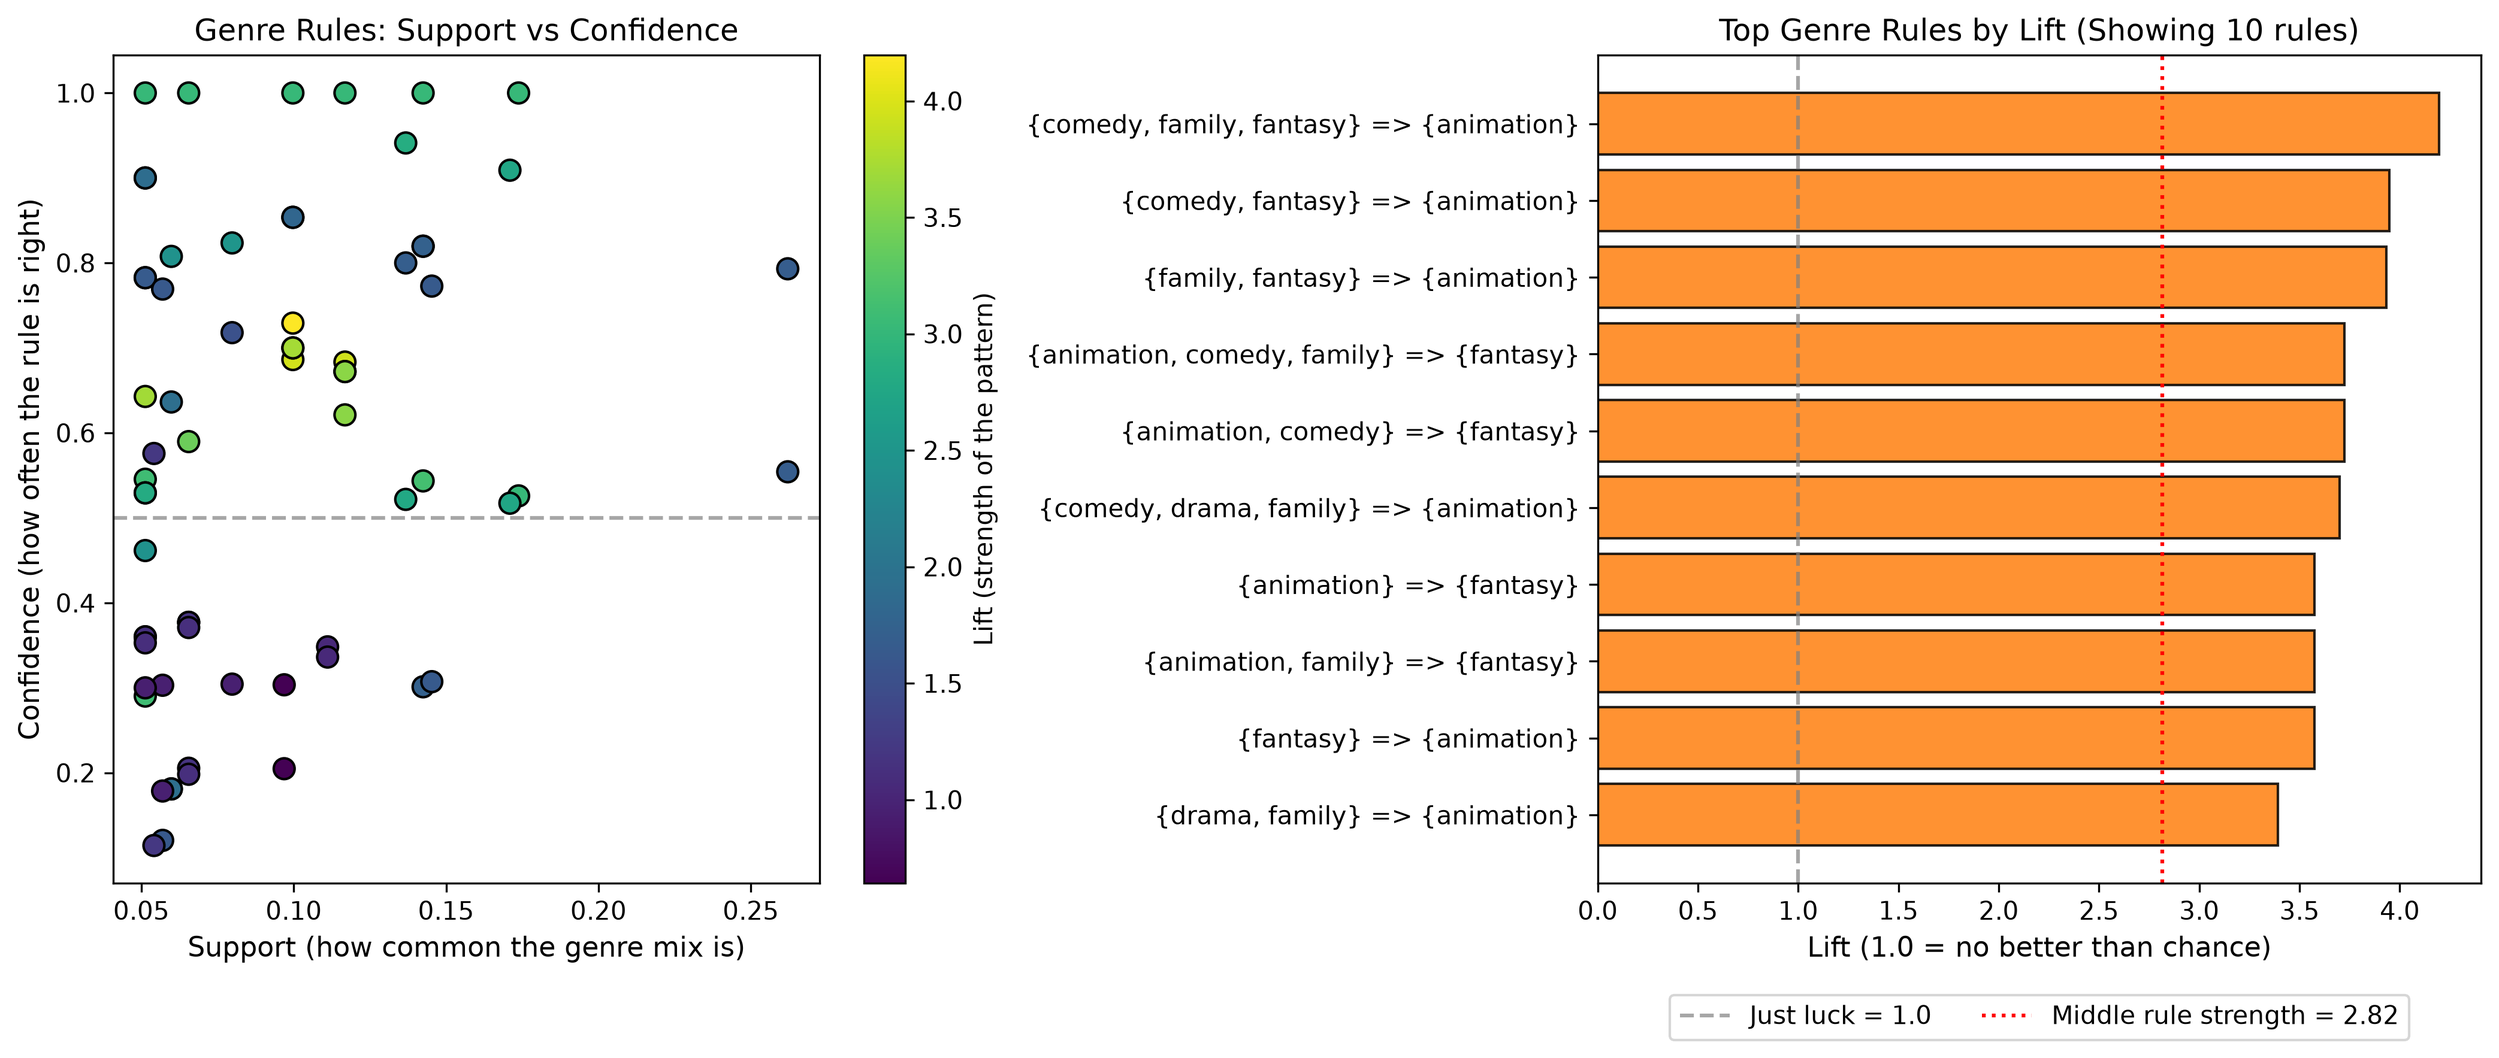
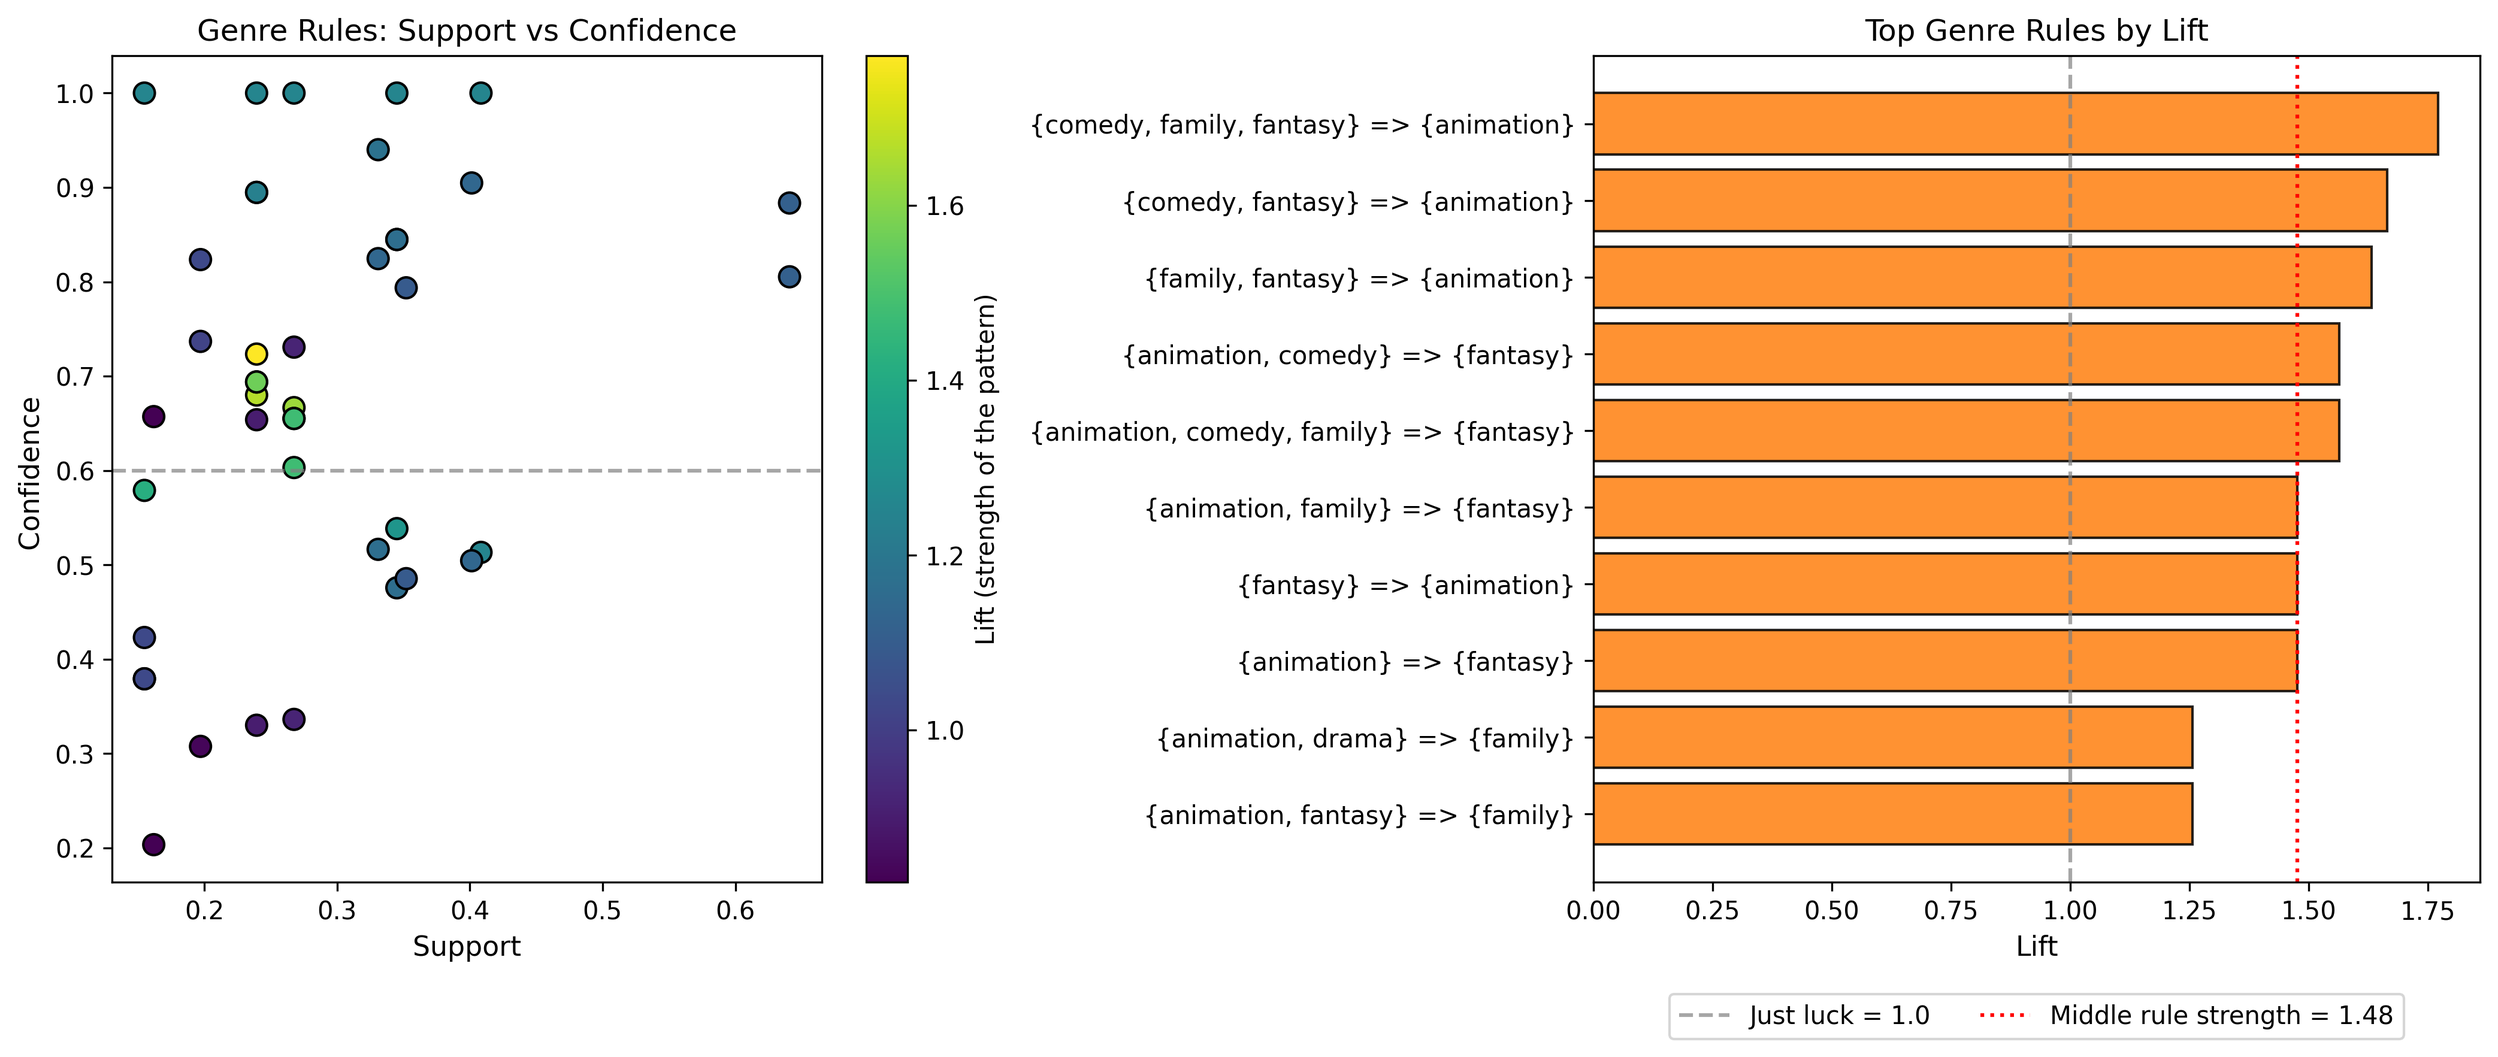
chore : cleaning the file and fixing the better threshold and confidence

diff --git a/Appriori_Analysis_final.py b/Appriori_Analysis_final.py
@@ -1,9 +1,47 @@
+"""
+Apriori analysis of Disney genres (revised after the dataset review).
+
+Comment tags used below:
+  [KEPT]    same logic as your previous version
+  [CHANGED] same place, different behaviour (reason given)
+  [ADDED]   new in this version (reason given)
+  [REMOVED] taken out (reason given)
+  [MOVED]   same code, new position in the file
+
+Summary of the changes:
+  1. [ADDED]   One settings block: minsupp 0.15, confidence 0.6, lift 1.2.
+  2. [ADDED]   Apriori now mines only films with 2+ genres (one-genre films
+               cannot form a rule and inflate lift), minus the 3 films whose
+               genres belong to another version of the film.
+  3. [CHANGED] Validation and cross-feature sections use that same film set.
+  4. [CHANGED] minsupp sensitivity table now shows films needed and rule counts.
+  5. [CHANGED] Fragile code fixed: bare except, try/except that never fired,
+               max() on an empty set, division by zero on empty test set.
+"""
+
 import ast
+import math
 from itertools import combinations
 import pandas as pd
 import matplotlib.pyplot as plt
 
 pd.set_option("display.width", 200)
+
+# =====================  SETTINGS  =====================
+# [ADDED] All thresholds live here so slides and code always agree.
+minsupp = 0.15          # [CHANGED] kept at 0.15 = ~22 films on the 2+ genre set
+minsupp_x = 0.10        # [KEPT] cross-feature baskets have rarer items
+MIN_CONF = 0.6          # [CHANGED] was 0.5 -> the old filter removed very little
+MIN_LIFT = 1.2          # [CHANGED] was 1.0 -> lift 1.0 means "no pattern"
+MIN_GENRES = 2          # [ADDED] a film needs 2+ genres to be able to form a rule
+
+# [ADDED] Films whose genre list belongs to a different version of the film.
+# Matched on (lowercase title, release year). Edit this list if you find more.
+WRONG_VERSIONS = {
+    ("beauty and the beast", 1991),
+    ("the jungle book", 1994),
+    ("cinderella", 2015),
+}
 
 # Load the dedicated Apriori files so your other test files remain untouched
 train_raw = pd.read_csv("Datasets/disney_train_clean.csv")
@@ -16,8 +54,12 @@ test_raw["split"] = "test"
 merged = pd.concat([train_raw, test_raw], ignore_index=True)
 merged.to_csv("disney_merged.csv", index=False)
 
-# =====================  APRIORI FUNCTIONS  =====================
+
+# =====================  FUNCTIONS  =====================
 def support(itemset, tx):
+    # [CHANGED] guard against an empty transaction list (division by zero)
+    if not tx:
+        return 0.0
     s = set(itemset)
     return sum(1 for t in tx if s.issubset(t)) / len(tx)
 
@@ -73,7 +115,7 @@ def parse_basket(v):
     if v.startswith("["):
         try:
             return {g.lower().strip() for g in ast.literal_eval(v)}
-        except:
+        except (ValueError, SyntaxError):   # [CHANGED] was a bare "except:"
             return set()
     # If it's a plain comma-separated string (e.g., "Animation, Comedy")
     elif "," in v:
@@ -81,61 +123,8 @@ def parse_basket(v):
     # If it's just a single genre string (e.g., "Animation")
     return {v.lower().strip()}
 
-# Find the correct genre column dynamically
-genre_col = "genre" if "genre" in merged.columns else ("genres" if "genres" in merged.columns else None)
-
-if genre_col:
-    merged["genre_basket"] = merged[genre_col].map(parse_basket)
-else:
-    raise KeyError("Could not find a 'genre' or 'genres' column in your dataset!")
-
-transactions = [b for b in merged["genre_basket"] if len(b) > 0]
-items = sorted({i for t in transactions for i in t})
-N = len(transactions)
-minsupp = 0.05
-
-print(f"|T| = {N} transactions, |I| = {len(items)} items")
-for t in transactions[:5]:
-    print(sorted(t))
-
-print("Number of transactions (films):", N)
-print("Average genres per film       :", round(sum(len(t) for t in transactions) / N, 2))
-
-# =====================  RUN APRIORI ON GENRES  =====================
-for ms in [0.05, 0.10, 0.15, 0.20, 0.30]:
-    f = apriori_manual(transactions, ms, verbose=False)
-    print(f"minsupp={ms:.2f} -> {len(f):3d} frequent itemsets, largest size k={max(len(s) for s in f)}")
-    
-frequent = apriori_manual(transactions, minsupp)
-
-multi = sorted((s for s in frequent if len(s) >= 2), key=lambda s: (len(s), sorted(s)))
-for s in multi:
-    print(sorted(s), round(frequent[s], 3))
-
-# =====================  STEP 4: CANDIDATES FOR RULES  =====================
-def rule_candidates(target, tx):
-    items = sorted(target)
-    s_xy = support(items, tx)
-    rows = []
-    for r in range(0, len(items) + 1):
-        for ante in combinations(items, r):
-            ante = set(ante); cons = set(items) - ante
-            s_x, s_y = support(ante, tx), support(cons, tx)
-            rows.append({
-                "Rule": ("{" + ", ".join(sorted(ante)) + "}" if ante else "Ø") + " => " +
-                        ("{" + ", ".join(sorted(cons)) + "}" if cons else "Ø"),
-                "Confidence": round(s_xy / s_x, 2) if s_x > 0 else 0.0,
-                "Lift": round(s_xy / (s_x * s_y), 2) if (s_x * s_y) > 0 else 0.0,
-                "Leverage": round(s_xy - s_x * s_y, 2),
-                "Kept?": "Yes" if ante and len(cons) == 1 else "No"})
-    return pd.DataFrame(rows)
-
-try:
-    print(rule_candidates({"animation", "comedy", "family", "fantasy"}, transactions).to_string(index=False))
-except KeyError:
-    print("Target combination not present in frequent itemsets for this minsupp.")
-
-# =====================  RULES FOR ALL FREQUENT ITEMSETS  =====================
+# [MOVED] generate_rules used to sit further down; it is now defined here so the
+# minsupp sensitivity table can also count rules.
 def generate_rules(frequent, single_consequent=True):
     rows = []
     for itemset, s_xy in frequent.items():
@@ -158,9 +147,127 @@ def generate_rules(frequent, single_consequent=True):
         return pd.DataFrame(columns=["antecedent", "consequent", "Rule", "Support", "Confidence", "Lift", "Leverage"])
     return pd.DataFrame(rows).sort_values("Lift", ascending=False).reset_index(drop=True)
 
-MIN_CONF, MIN_LIFT = 0.5, 1.0
+
+# =====================  BASKETS & FILM SELECTION  =====================
+# Find the correct genre column dynamically
+genre_col = "genre" if "genre" in merged.columns else ("genres" if "genres" in merged.columns else None)
+
+if genre_col:
+    merged["genre_basket"] = merged[genre_col].map(parse_basket)
+else:
+    raise KeyError("Could not find a 'genre' or 'genres' column in your dataset!")
+
+# [ADDED] Helper columns to detect the wrong-version films.
+def find_col(df, candidates):
+    for c in candidates:
+        if c in df.columns:
+            return c
+    return None
+
+title_col = find_col(merged, ["title", "movie_title", "name", "movie"])
+year_col = find_col(merged, ["year", "disney_year", "release_year"])
+if year_col:
+    merged["_year"] = pd.to_numeric(merged[year_col], errors="coerce")
+elif "release_date" in merged.columns:
+    merged["_year"] = pd.to_datetime(merged["release_date"], errors="coerce").dt.year
+else:
+    merged["_year"] = float("nan")
+
+# [ADDED] Flag the 3 wrong-version films (title AND year must match).
+is_wrong = pd.Series(False, index=merged.index)
+if title_col and merged["_year"].notna().any():
+    norm_titles = merged[title_col].astype(str).str.lower().str.strip()
+    for t, y in WRONG_VERSIONS:
+        is_wrong |= (norm_titles == t) & (merged["_year"] == y)
+else:
+    print("WARNING: could not find a title/year column, wrong-version films were NOT removed.")
+
+# [ADDED] Document the film selection so the data-prep slide can quote it.
+has_genre = merged["genre_basket"].map(len) > 0
+n_genres = merged["genre_basket"].map(len)
+print("=== Film selection for Apriori ===")
+print("All films                         :", len(merged))
+print("Films with a genre list           :", int(has_genre.sum()))
+print("  with only 1 genre (excluded)    :", int((n_genres == 1).sum()))
+print(f"  with {MIN_GENRES}+ genres                  :", int((n_genres >= MIN_GENRES).sum()))
+print("  wrong-version films removed     :", int((is_wrong & (n_genres >= MIN_GENRES)).sum()),
+      f"(expected {len(WRONG_VERSIONS)})")
+
+# [ADDED] One-genre films are kept for descriptive statistics, just not for mining.
+all_labels = pd.Series([g for b in merged["genre_basket"] for g in b]).value_counts()
+print("Top genre labels on ALL films (descriptive):", {k: int(v) for k, v in all_labels.head(8).items()})
+
+# [CHANGED] mining_df replaces "merged" as the film set for everything below.
+mining_df = merged[(n_genres >= MIN_GENRES) & ~is_wrong].copy()
+
+transactions = list(mining_df["genre_basket"])
+items = sorted({i for t in transactions for i in t})
+N = len(transactions)
+if N == 0:
+    raise ValueError("No films left to mine. Check MIN_GENRES and the genre column.")
+
+print(f"\n|T| = {N} transactions, |I| = {len(items)} items")
+for t in transactions[:5]:
+    print(sorted(t))
+
+print("Number of transactions (films):", N)
+print("Average genres per film       :", round(sum(len(t) for t in transactions) / N, 2))
+print(f"Minimum films per frequent itemset at minsupp={minsupp}: {math.ceil(minsupp * N)}")
+
+# =====================  RUN APRIORI ON GENRES  =====================
+# [CHANGED] The sensitivity table now shows films needed and the rule count,
+# so the choice of 0.15 can be defended with numbers instead of preference.
+print("\n=== minsupp sensitivity ===")
+print(f"{'minsupp':>8} {'films':>6} {'itemsets':>9} {'max k':>6} {'rules':>6}")
+for ms in [0.05, 0.10, 0.15, 0.20, 0.30]:
+    f = apriori_manual(transactions, ms, verbose=False)
+    r = generate_rules(f)
+    n_r = len(r[(r["Confidence"] >= MIN_CONF) & (r["Lift"] >= MIN_LIFT)]) if not r.empty else 0
+    max_k = max((len(s) for s in f), default=0)   # [CHANGED] default=0 avoids a crash on an empty result
+    print(f"{ms:>8.2f} {math.ceil(ms * N):>6d} {len(f):>9d} {max_k:>6d} {n_r:>6d}")
+
+print()
+frequent = apriori_manual(transactions, minsupp)
+
+multi = sorted((s for s in frequent if len(s) >= 2), key=lambda s: (len(s), sorted(s)))
+for s in multi:
+    print(sorted(s), round(frequent[s], 3))
+
+# =====================  STEP 4: CANDIDATES FOR RULES  =====================
+# [KEPT] Lecture-style demo of every split of one itemset.
+def rule_candidates(target, tx):
+    items = sorted(target)
+    s_xy = support(items, tx)
+    rows = []
+    for r in range(0, len(items) + 1):
+        for ante in combinations(items, r):
+            ante = set(ante); cons = set(items) - ante
+            s_x, s_y = support(ante, tx), support(cons, tx)
+            rows.append({
+                "Rule": ("{" + ", ".join(sorted(ante)) + "}" if ante else "Ø") + " => " +
+                        ("{" + ", ".join(sorted(cons)) + "}" if cons else "Ø"),
+                "Confidence": round(s_xy / s_x, 2) if s_x > 0 else 0.0,
+                "Lift": round(s_xy / (s_x * s_y), 2) if (s_x * s_y) > 0 else 0.0,
+                "Leverage": round(s_xy - s_x * s_y, 2),
+                "Kept?": "Yes" if ante and len(cons) == 1 else "No"})
+    return pd.DataFrame(rows)
+
+# [CHANGED] The old try/except KeyError could never fire (nothing raised it).
+# An explicit membership check does what the message promised.
+demo_set = frozenset({"animation", "comedy", "family", "fantasy"})
+if demo_set in frequent:
+    print(rule_candidates(demo_set, transactions).to_string(index=False))
+else:
+    print("Target combination not present in frequent itemsets for this minsupp.")
+
+# =====================  RULES FOR ALL FREQUENT ITEMSETS  =====================
+# [MOVED] generate_rules is defined in the FUNCTIONS block above.
+# [CHANGED] MIN_CONF / MIN_LIFT now come from the SETTINGS block (0.6 / 1.2).
 all_rules = generate_rules(frequent)
-rules_f = all_rules[(all_rules["Confidence"] >= MIN_CONF) & (all_rules["Lift"] >= MIN_LIFT)].reset_index(drop=True)
+if all_rules.empty:
+    rules_f = all_rules.copy()
+else:
+    rules_f = all_rules[(all_rules["Confidence"] >= MIN_CONF) & (all_rules["Lift"] >= MIN_LIFT)].reset_index(drop=True)
 
 print(f"Rules generated: {len(all_rules)}   |   after filter (conf >= {MIN_CONF}, lift >= {MIN_LIFT}): {len(rules_f)}")
 show = ["Rule", "Support", "Confidence", "Lift", "Leverage"]
@@ -168,12 +275,14 @@ if not rules_f.empty:
     print(rules_f[show].round(3).to_string(index=False))
 
 # =====================  VALIDATION  =====================
-train_df = merged[merged["split"] == "train"]
-test_df = merged[merged["split"] == "test"]
-train_tx = [parse_basket(b) for b in train_df["genre_basket"]]
-test_tx = [parse_basket(b) for b in test_df["genre_basket"]]
+# [CHANGED] Train/test now come from mining_df (2+ genres, wrong versions removed),
+# so validation uses exactly the same films as the main mining.
+train_tx = list(mining_df.loc[mining_df["split"] == "train", "genre_basket"])
+test_tx = list(mining_df.loc[mining_df["split"] == "test", "genre_basket"])
 
 print(f"Train films: {len(train_tx)} | Test films: {len(test_tx)}")
+if len(test_tx) < 50:
+    print("Note: the test set is small, so treat 'Holds on test?' as a sanity check, not proof.")
 
 rules_tr = generate_rules(apriori_manual(train_tx, minsupp, verbose=False))
 if not rules_tr.empty:
@@ -189,9 +298,15 @@ if not rules_tr.empty:
     rules_tr[["Test conf", "Test lift"]] = rules_tr.apply(
         lambda r: pd.Series(eval_rule(r["antecedent"], r["consequent"], test_tx)), axis=1
     )
+    # [KEPT] "Holds" = still confident enough on test AND better than chance (lift > 1)
     rules_tr["Holds on test?"] = ((rules_tr["Test conf"] >= MIN_CONF) & (rules_tr["Test lift"] > 1)).map({True: "Yes", False: "No"})
     show_cols = ["Rule", "Support", "Confidence", "Lift", "Leverage", "Test conf", "Test lift", "Holds on test?"]
     print(rules_tr[show_cols].round(2).to_string(index=False))
+    # [ADDED] One-line summary for the slide
+    n_hold = int((rules_tr["Holds on test?"] == "Yes").sum())
+    print(f"Rules mined on train that hold on test: {n_hold} of {len(rules_tr)}")
+else:
+    print("No rules passed the filter on the training films.")
 
 # =====================  CROSS-CHECK WITH mlxtend  =====================
 try:
@@ -201,7 +316,7 @@ try:
     fi = mlx_apriori(onehot, min_support=minsupp, use_colnames=True)
     mlx = {frozenset(row.itemsets): row.support for row in fi.itertuples()}
     same_sets = set(mlx) == set(frequent)
-    max_diff = max(abs(mlx[k] - frequent[k]) for k in frequent) if same_sets else None
+    max_diff = max(abs(mlx[k] - frequent[k]) for k in frequent) if same_sets and frequent else None
     print("Same as mlxtend:", same_sets)
     print("Max support difference          :", max_diff)
     print("Manual:", len(frequent), "itemsets | mlxtend:", len(mlx), "itemsets")
@@ -209,41 +324,39 @@ except ImportError:
     print("mlxtend not installed. Run:  pip install mlxtend  then re-run this cell.")
 
 # =====================  CROSS-FEATURE RULES  =====================
+# [CHANGED] Uses mining_df (same films as the genre rules) instead of every film.
 # Find the correct gross column dynamically
 gross_col = None
 for col in ["inflation_adjusted_gross", "total_gross", "worldwide_gross", "gross"]:
-    if col in merged.columns:
+    if col in mining_df.columns:
         gross_col = col
         break
 
 if gross_col:
-    med_gross = merged[gross_col].median()
+    med_gross = mining_df[gross_col].median()
 else:
     med_gross = 0
 
 def make_basket(row):
     genre_vals = row.get("genre_basket")
-    if pd.isna(genre_vals):
+    if not isinstance(genre_vals, (set, list, frozenset)):
         genre_vals = []
     items = [f"genre:{g}" for g in genre_vals]
-    
+
     if "mpaa_rating" in row and pd.notna(row["mpaa_rating"]):
         items.append(f"rating:{row['mpaa_rating']}")
-        
-    year_val = row.get("year") or row.get("disney_year")
+
+    # [CHANGED] uses the helper "_year" column built earlier (same year logic as the film removal)
+    year_val = row.get("_year")
     if pd.notna(year_val):
-        try:
-            items.append(f"era:{(int(year_val) // 10) * 10}s")
-        except:
-            pass
-            
+        items.append(f"era:{(int(year_val) // 10) * 10}s")
+
     if gross_col and pd.notna(row.get(gross_col)):
         items.append("gross:high" if row[gross_col] >= med_gross else "gross:low")
-        
+
     return set(items)
 
-tx_x = [make_basket(r) for _, r in merged.iterrows()]
-minsupp_x = 0.10
+tx_x = [make_basket(r) for _, r in mining_df.iterrows()]
 freq_x = apriori_manual(tx_x, minsupp_x, verbose=False)
 print(f"Frequent itemsets with cross-feature baskets (minsupp={minsupp_x}): {len(freq_x)}")
 
@@ -275,9 +388,10 @@ if not all_rules.empty and not rules_f.empty:
         edgecolor="k"
     )
     axes[0].axhline(MIN_CONF, ls="--", c="gray", alpha=0.7)
-    axes[0].set_xlabel("Support (how common the genre mix is)", fontsize=11)
-    axes[0].set_ylabel("Confidence (how often the rule is right)", fontsize=11)
-    axes[0].set_title("Genre Rules: Support vs Confidence", fontsize=12)
+    axes[0].set_xlabel("Support", fontsize=11)
+    axes[0].set_ylabel("Confidence ", fontsize=11)
+    # [CHANGED] title states the film count so the slide is self-explanatory
+    axes[0].set_title(f"Genre Rules: Support vs Confidence", fontsize=12)
     fig.colorbar(dots, ax=axes[0], label="Lift (strength of the pattern)")
 
     # ---------- Right graph: top 10 strongest rules ----------
@@ -293,8 +407,8 @@ if not all_rules.empty and not rules_f.empty:
                     label="Just luck = 1.0")
     axes[1].axvline(middle_rule_strength, ls=":", c="red",
                     label=f"Middle rule strength = {middle_rule_strength:.2f}")
-    axes[1].set_xlabel("Lift (1.0 = no better than chance)", fontsize=11)
-    axes[1].set_title(f"Top Genre Rules by Lift (Showing {len(top_rules)} rules)", fontsize=12)
+    axes[1].set_xlabel("Lift", fontsize=11)
+    axes[1].set_title(f"Top Genre Rules by Lift", fontsize=12)
 
     # Legend placed below the chart so it does not cover any bars
     axes[1].legend(loc="upper center", bbox_to_anchor=(0.5, -0.12), ncol=2)
@@ -306,3 +420,6 @@ if not all_rules.empty and not rules_f.empty:
     print("Graph saved as 'apriori_genre_rules_analysis.png'")
 
     plt.show()
+else:
+    # [ADDED] Say why there is no graph instead of silently skipping it
+    print("No rules passed the filter, so no graph was drawn. Try a lower minsupp, MIN_CONF or MIN_LIFT.")
